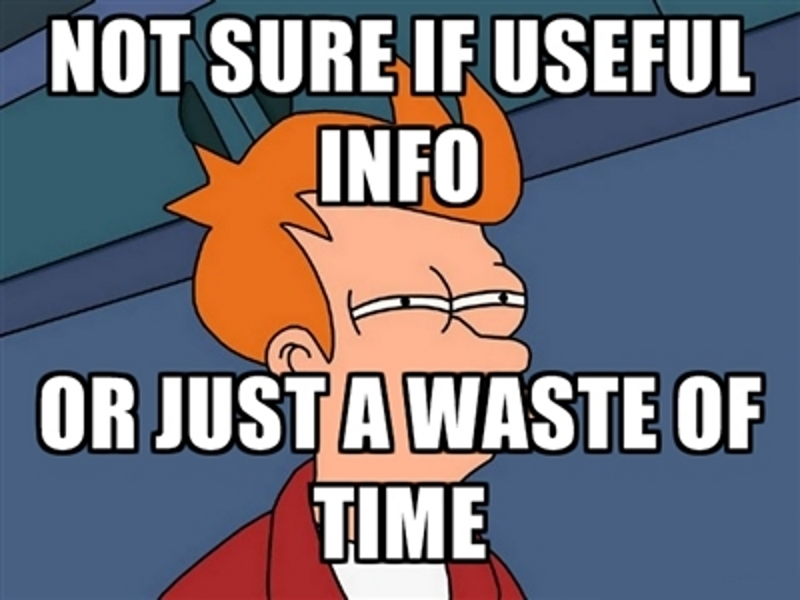
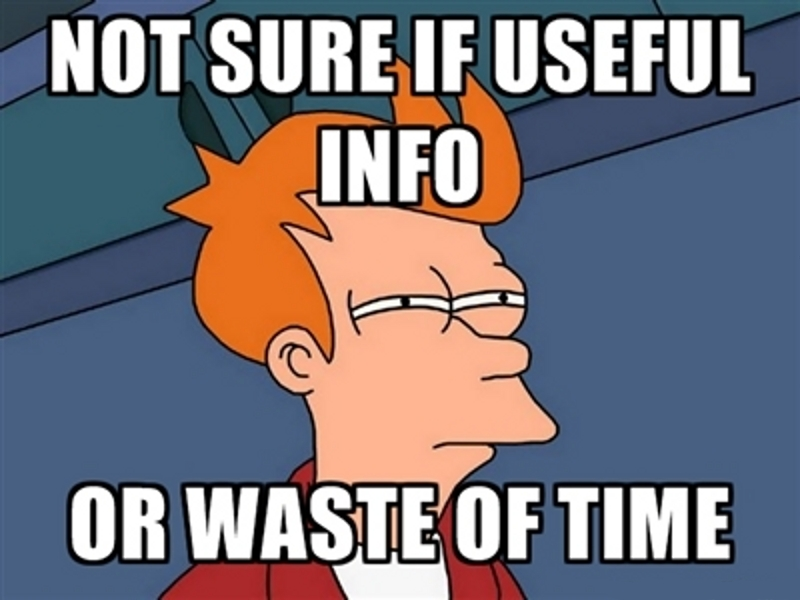
formatting and new image

Changed region(s): [[0.0312, 0.6, 0.9688, 0.96]]

diff --git a/slides/api-slides/index.html b/slides/api-slides/index.html
@@ -560,9 +560,9 @@ public class SwingExample {
  * Futurama Fry
  *
 -->
-<div class="slide centercontents">
+<div class="slide centercontents transparent" data-background-id="bg-white">
   <section>
-  	<img src="images/futuramafry.jpg" height="100%" width="100%">
+  	<img src="images/futuramafry.jpg">
   </section>
 </div>
 
